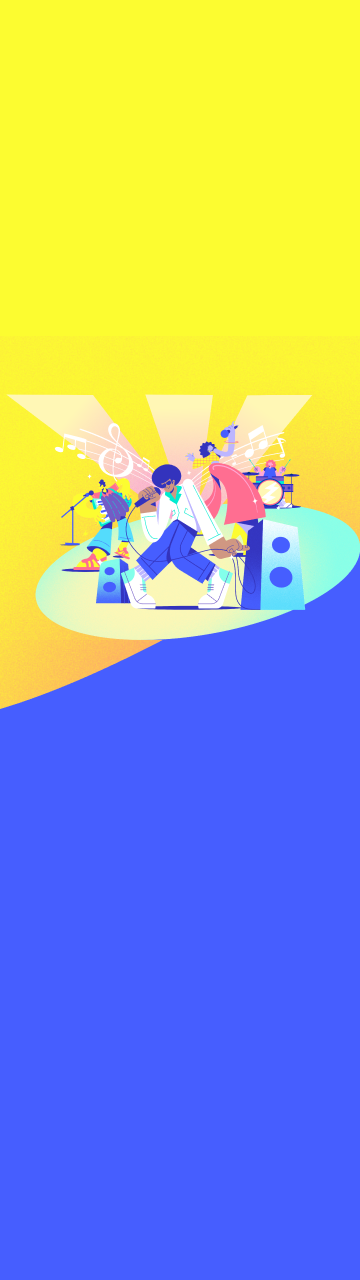
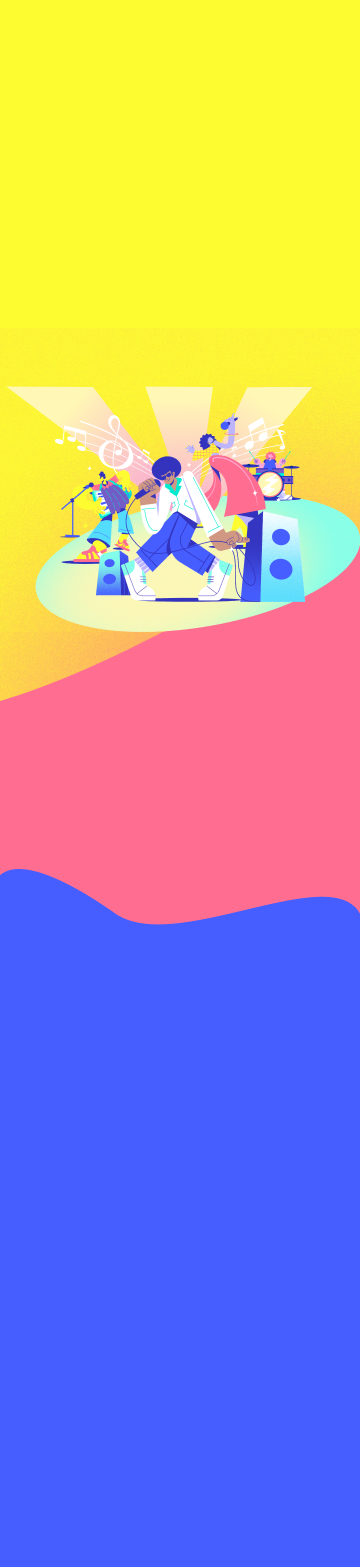
feat: ajustando novos bg e itens da home

Changed region(s): [[0.0, 0.2188, 1.0, 0.5938]]

diff --git a/src/pages/Home/sections/Section1.tsx b/src/pages/Home/sections/Section1.tsx
@@ -1,10 +1,9 @@
 import { useNavigate } from "react-router-dom";
 import { useState, useEffect } from "react";
 import { scroller } from "react-scroll";
-import { Contator, LogoBBEmTodoCanto } from "../../../assets/Icons";
+import { LogoBBEmTodoCanto } from "../../../assets/Icons";
 
 export function Section1() {
-  const [alertVisible, setAlertVisible] = useState(true);
   const [timeLeft, setTimeLeft] = useState({
     days: 0,
     hours: 0,
@@ -62,9 +61,9 @@ export function Section1() {
   return (
     <div
       id="o-concurso"
-      className="min-h-screen flex justify-center items-center"
+      className="min-h-screen flex flex-col justify-center items-center"
     >
-      <div className="max-w-7xl mx-auto w-full px-4 grid grid-cols-1 lg:grid-cols-2 items-center py-8 pb-56 gap-8 relative">
+      <div className="max-w-7xl mx-auto w-full px-4 grid grid-cols-1 lg:grid-cols-2 items-center py-8 pb-24 gap-8 relative">
         <div className="flex flex-col justify-center">
           <div className="z-10">
             <div className="w-1/2 lg:w-[296px]">
@@ -89,46 +88,38 @@ export function Section1() {
             </div>
           </div>
 
-          <p className="text-sm lg:text-base text-azul-600 mt-20 font-light hidden sm:block">
+          <p className="text-sm lg:text-base text-azul-600 mt-10 font-light hidden sm:block">
             *Confira o regulamento da campanha.
           </p>
         </div>
-        {alertVisible && (
-          <div
-            onClick={() => setAlertVisible(false)}
-            className="w-full lg:w-[568px] lg:h-[568px] cursor-pointer z-10 absolute top-1/2 -translate-y-1/2"
-          >
-            <Contator />
-            <div className="absolute top-1/2 left-1/2 -translate-x-1/2 -translate-y-1/2 text-center space-y-4">
-              <h3 className="text-2xl lg:text-3xl font-black text-amarelo-bb">
-                Faltam apenas
-              </h3>
-              <div className="flex gap-2">
-                <div className="w-[60px] h-[60px] lg:w-[88px] lg:h-[88px] rounded-full bg-amarelo-bb text-azul-bb flex flex-col justify-center items-center">
-                  <span className="text-2xl lg:text-4xl font-bold">
-                    {timeLeft.days}
-                  </span>
-                  <span className="text-xs lg:text-sm">dias</span>
-                </div>
-                <div className="w-[60px] h-[60px] lg:w-[88px] lg:h-[88px] rounded-full bg-amarelo-bb text-azul-bb flex flex-col justify-center items-center">
-                  <span className="text-2xl lg:text-4xl font-bold">
-                    {timeLeft.hours}
-                  </span>
-                  <span className="text-xs lg:text-sm">horas</span>
-                </div>
-                <div className="w-[60px] h-[60px] lg:w-[88px] lg:h-[88px] rounded-full bg-amarelo-bb text-azul-bb flex flex-col justify-center items-center">
-                  <span className="text-2xl lg:text-4xl font-bold">
-                    {timeLeft.minutes}
-                  </span>
-                  <span className="text-xs lg:text-sm">minutos</span>
-                </div>
-              </div>
-              <p className="text-lg lg:text-3xl text-white">
-                para as inscrições serem encerradas
-              </p>
-            </div>
+      </div>
+      <div className="max-w-7xl mx-auto text-center space-y-3 pt-48 md:pt-0">
+        <h3 className="text-2xl lg:text-3xl font-black text-amarelo-bb">
+          Faltam apenas
+        </h3>
+        <div className="flex gap-2 justify-center">
+          <div className="w-[60px] h-[60px] lg:w-[88px] lg:h-[88px] rounded-full bg-amarelo-bb text-azul-bb flex flex-col justify-center items-center">
+            <span className="text-2xl lg:text-4xl font-bold">
+              {timeLeft.days}
+            </span>
+            <span className="text-xs lg:text-sm">dias</span>
           </div>
-        )}
+          <div className="w-[60px] h-[60px] lg:w-[88px] lg:h-[88px] rounded-full bg-amarelo-bb text-azul-bb flex flex-col justify-center items-center">
+            <span className="text-2xl lg:text-4xl font-bold">
+              {timeLeft.hours}
+            </span>
+            <span className="text-xs lg:text-sm">horas</span>
+          </div>
+          <div className="w-[60px] h-[60px] lg:w-[88px] lg:h-[88px] rounded-full bg-amarelo-bb text-azul-bb flex flex-col justify-center items-center">
+            <span className="text-2xl lg:text-4xl font-bold">
+              {timeLeft.minutes}
+            </span>
+            <span className="text-xs lg:text-sm">minutos</span>
+          </div>
+        </div>
+        <p className="text-lg lg:text-2xl text-white font-light">
+          para as inscrições serem encerradas
+        </p>
       </div>
     </div>
   );

diff --git a/src/pages/Home/sections/Section2.tsx b/src/pages/Home/sections/Section2.tsx
@@ -4,7 +4,7 @@ export function Section2() {
   return (
     <div
       id="como-participar"
-      className="flex justify-center items-center py-40 pb-[340px]"
+      className="flex justify-center items-center pb-96 pt-40 md:py-40 md:pb-[340px]"
     >
       <div className="max-w-7xl mx-auto w-full px-4 grid grid-cols-1 lg:grid-cols-2 items-center gap-8 z-10">
         <div className="hidden lg:block"></div>
